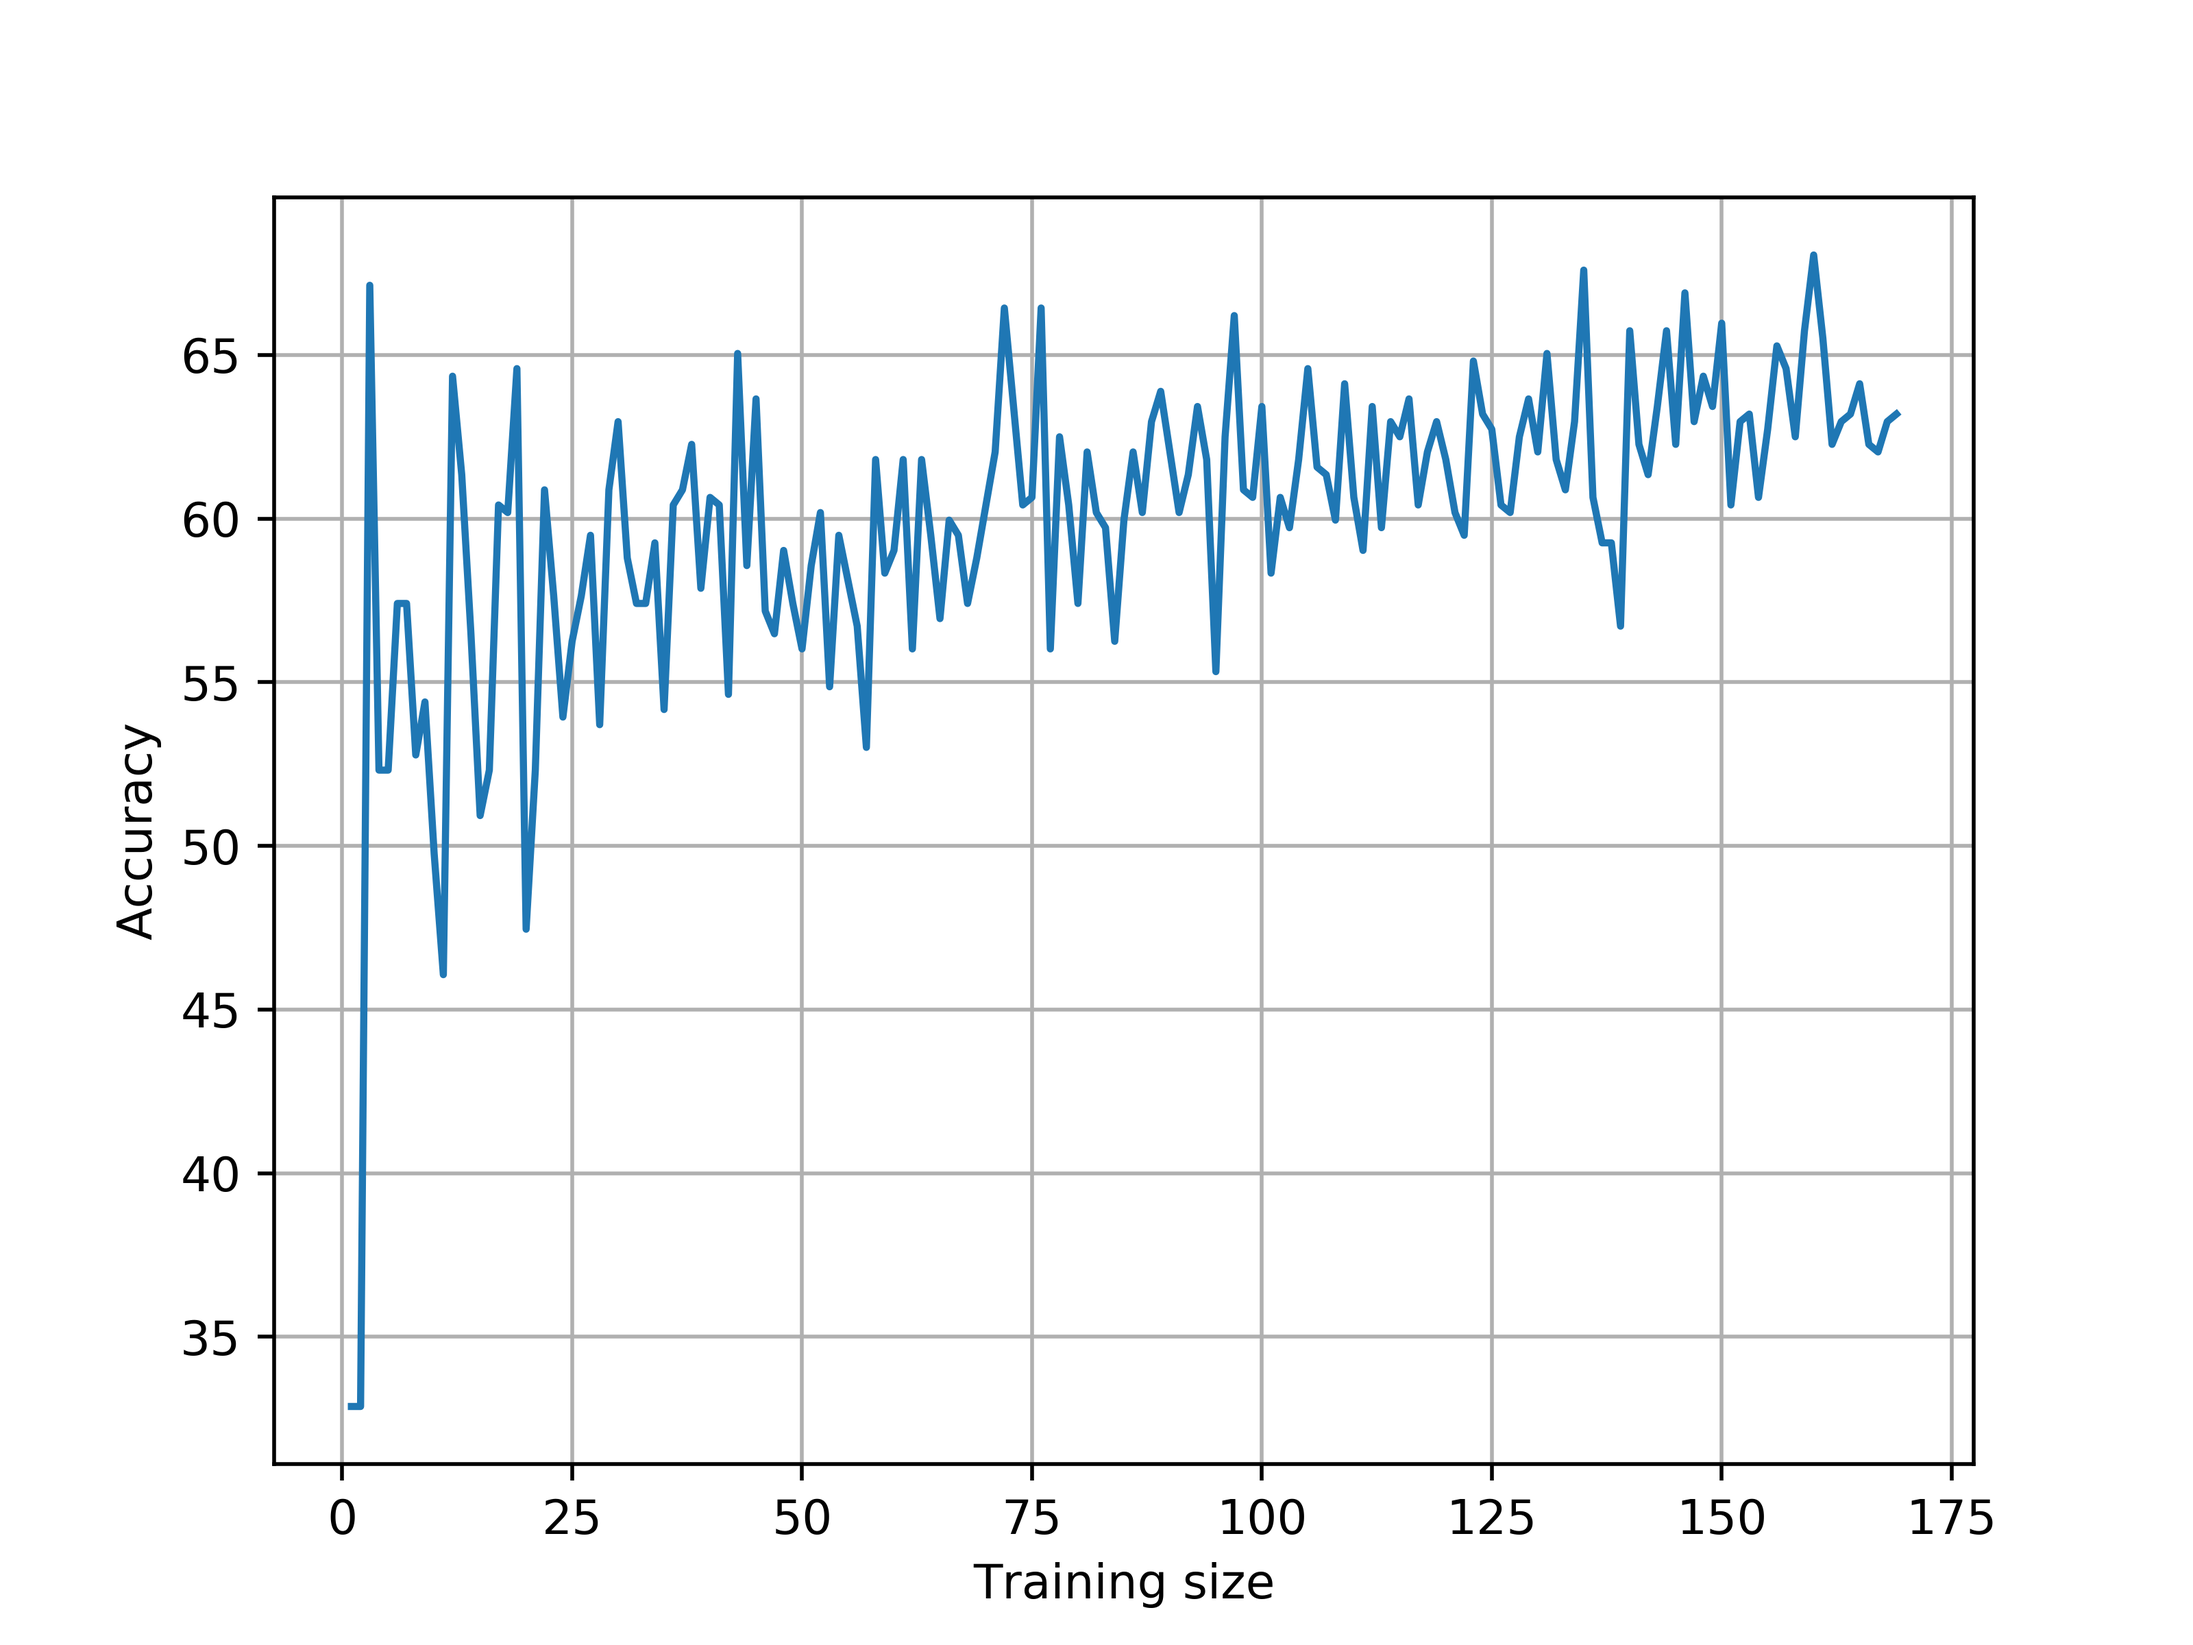
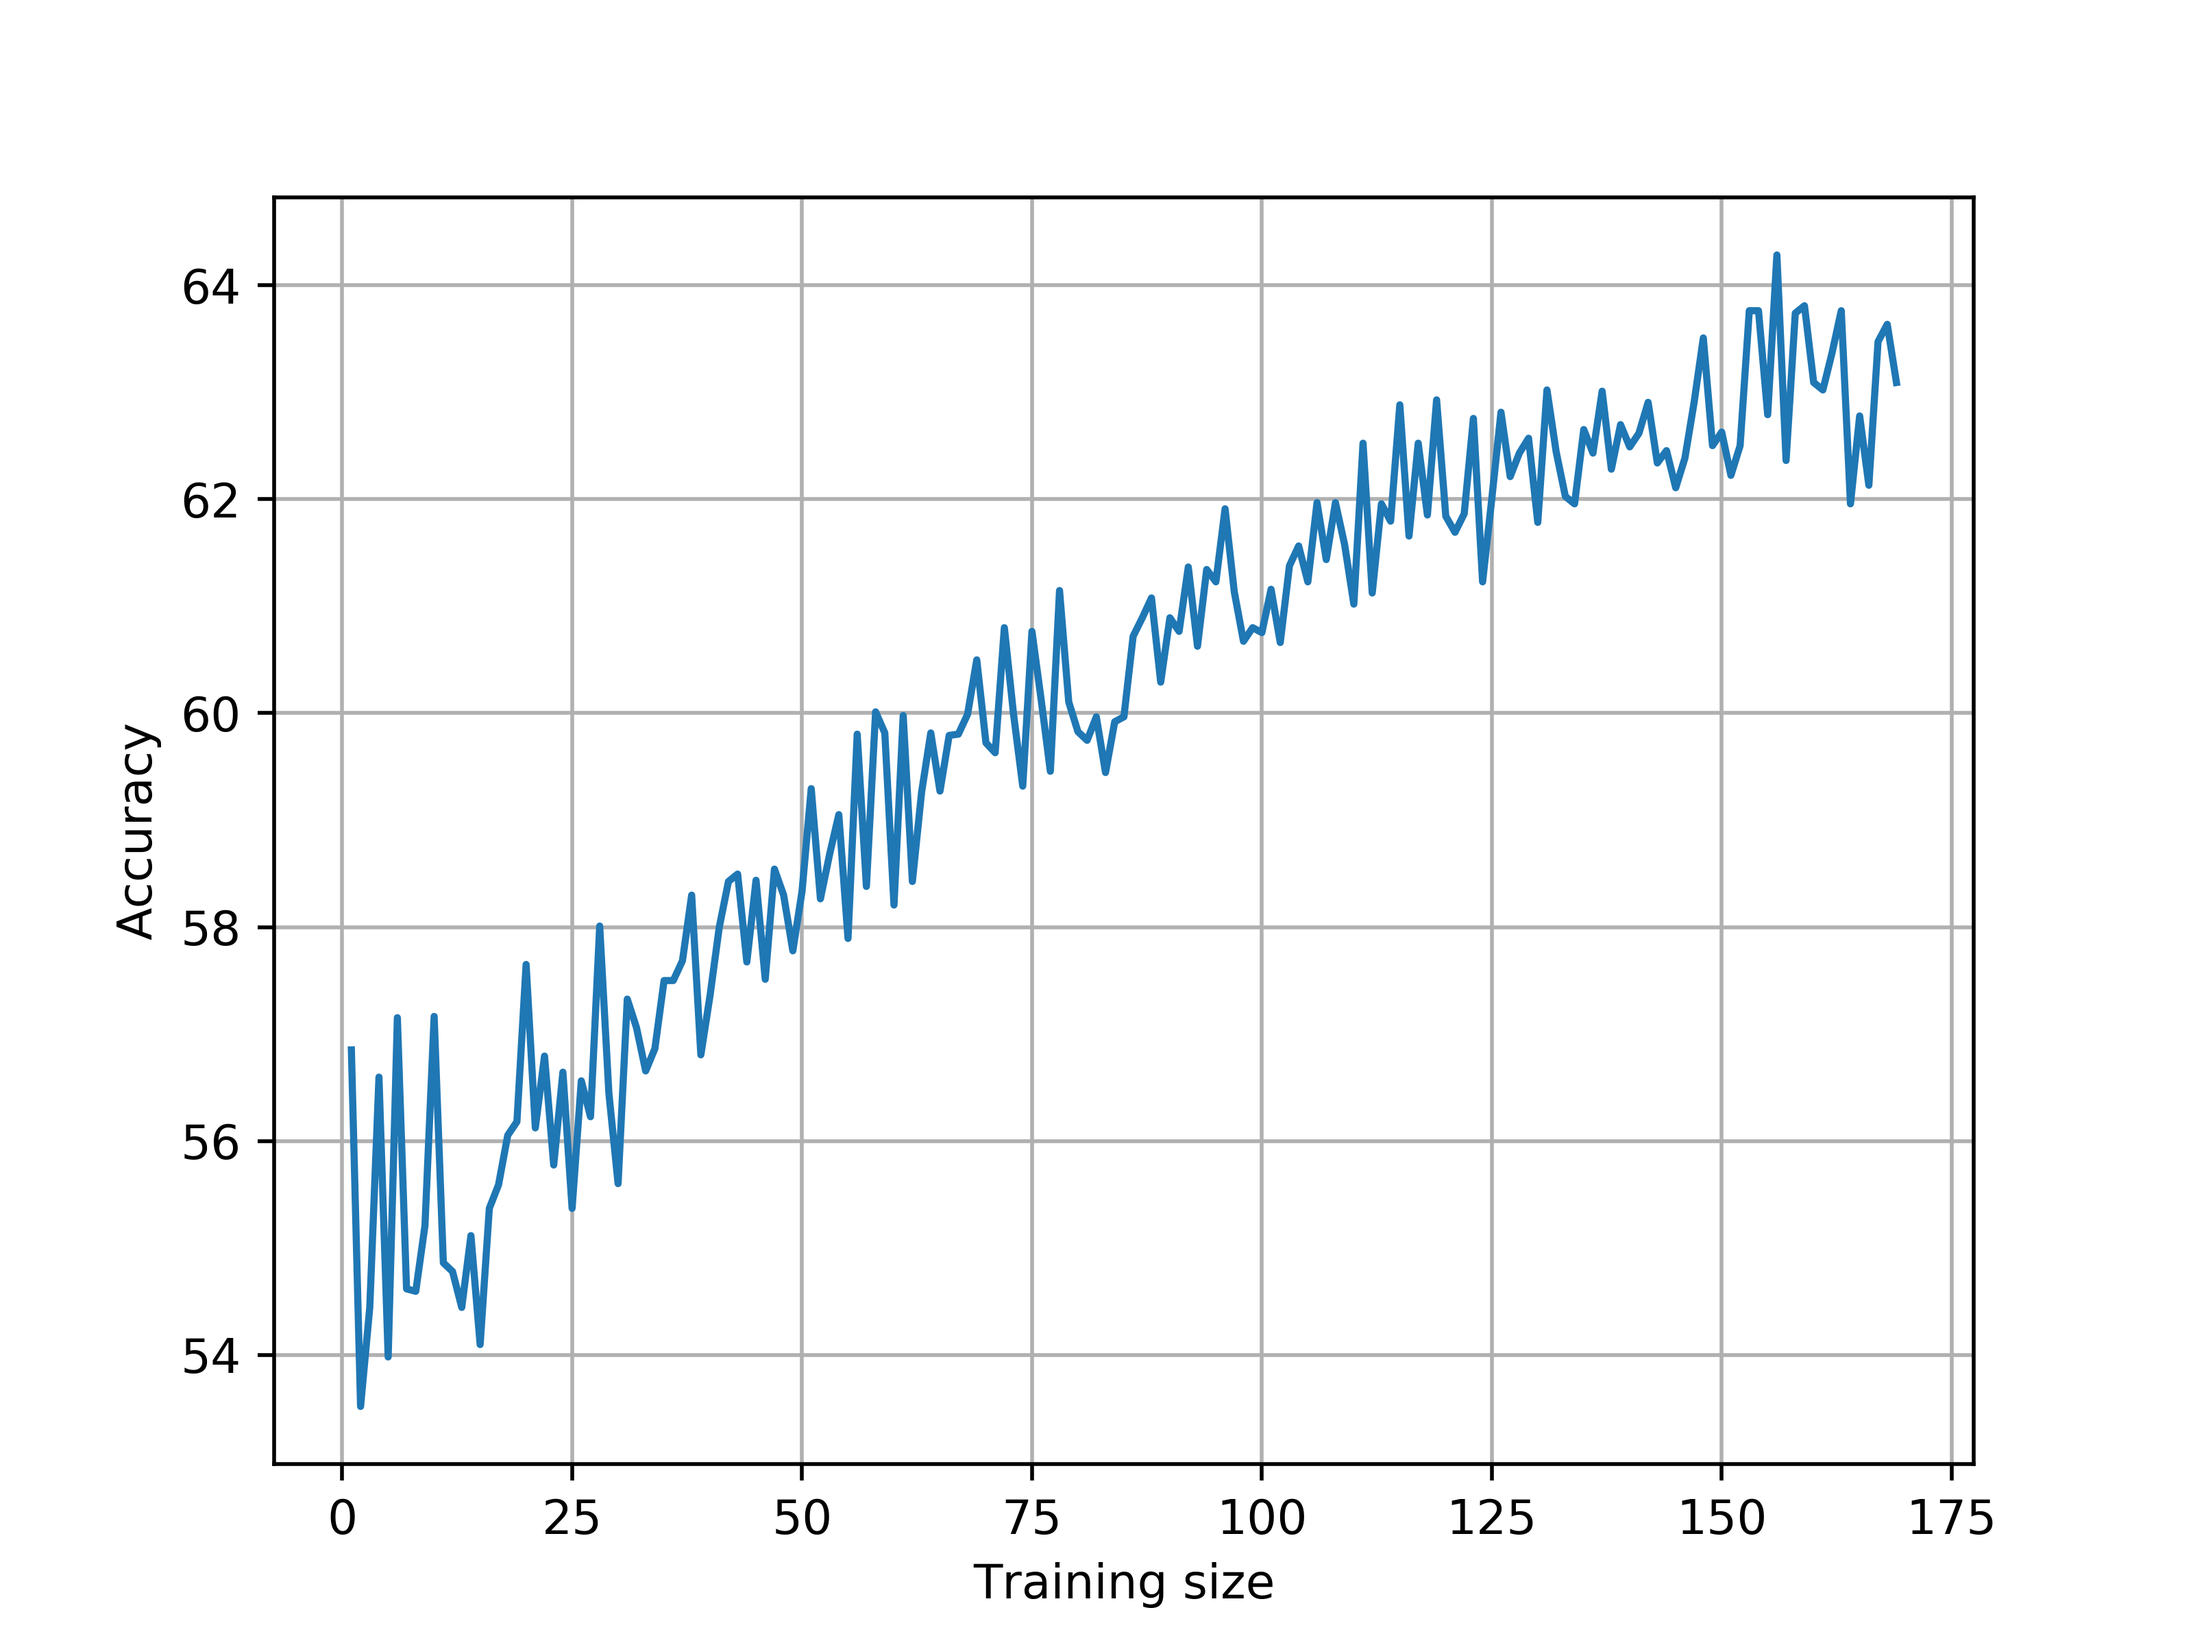
figures

diff --git a/Projet Final AI/Code/DecisionTree.py b/Projet Final AI/Code/DecisionTree.py
@@ -149,6 +149,7 @@ if __name__ == '__main__':
     warnings.filterwarnings("ignore")
 
     train_ratio_dt: float = 0.7
+    prn = 20  # number of training per training_size for the compute of the Learning curve
 
     confusionMatrixList: list = list()
 
@@ -162,7 +163,7 @@ if __name__ == '__main__':
 
     iris_train, iris_train_labels, iris_test, iris_test_labels = load_datasets.load_iris_dataset(train_ratio_dt)
     iris_dt = DecisionTree(IrisFeatures, name="Iris Decision Tree")
-    iris_dt.plot_learning_curve(iris_train, iris_train_labels, iris_test, iris_test_labels, save_name="iris_DT", prn=1)
+    iris_dt.plot_learning_curve(iris_train, iris_train_labels, iris_test, iris_test_labels, save_name="iris_DT", prn=prn)
     iris_dt.train(iris_train, iris_train_labels)
     cm, _, _, _ = iris_dt.test(iris_test, iris_test_labels)
 
@@ -188,7 +189,7 @@ if __name__ == '__main__':
     cong_test = replaceMissingValues(cong_test, CongressionalValue.MISSING_VALUE.value)
 
     cong_dt = DecisionTree(congressionalFeatures, name="Congressional Decision Tree")
-    cong_dt.plot_learning_curve(cong_train, cong_train_labels, cong_test, cong_test_labels, save_name="cong_DT", prn=1)
+    cong_dt.plot_learning_curve(cong_train, cong_train_labels, cong_test, cong_test_labels, save_name="cong_DT", prn=prn)
     cong_dt.train(cong_train, cong_train_labels)
     cm, _, _, _ = cong_dt.test(cong_test, cong_test_labels)
 
@@ -209,7 +210,7 @@ if __name__ == '__main__':
         monks_dt = DecisionTree(MonksFeatures, name=f"Monks({i + 1}) Decision Tree")
 
         monks_dt.plot_learning_curve(monks_train, monks_train_labels,
-                                     monks_test, monks_test_labels, save_name=f"monks{i + 1}_DT", prn=1)
+                                     monks_test, monks_test_labels, save_name=f"monks{i + 1}_DT", prn=prn)
 
         monks_dt.train(monks_train, monks_train_labels)
         cm, _, _, _ = monks_dt.test(monks_test, monks_test_labels)
